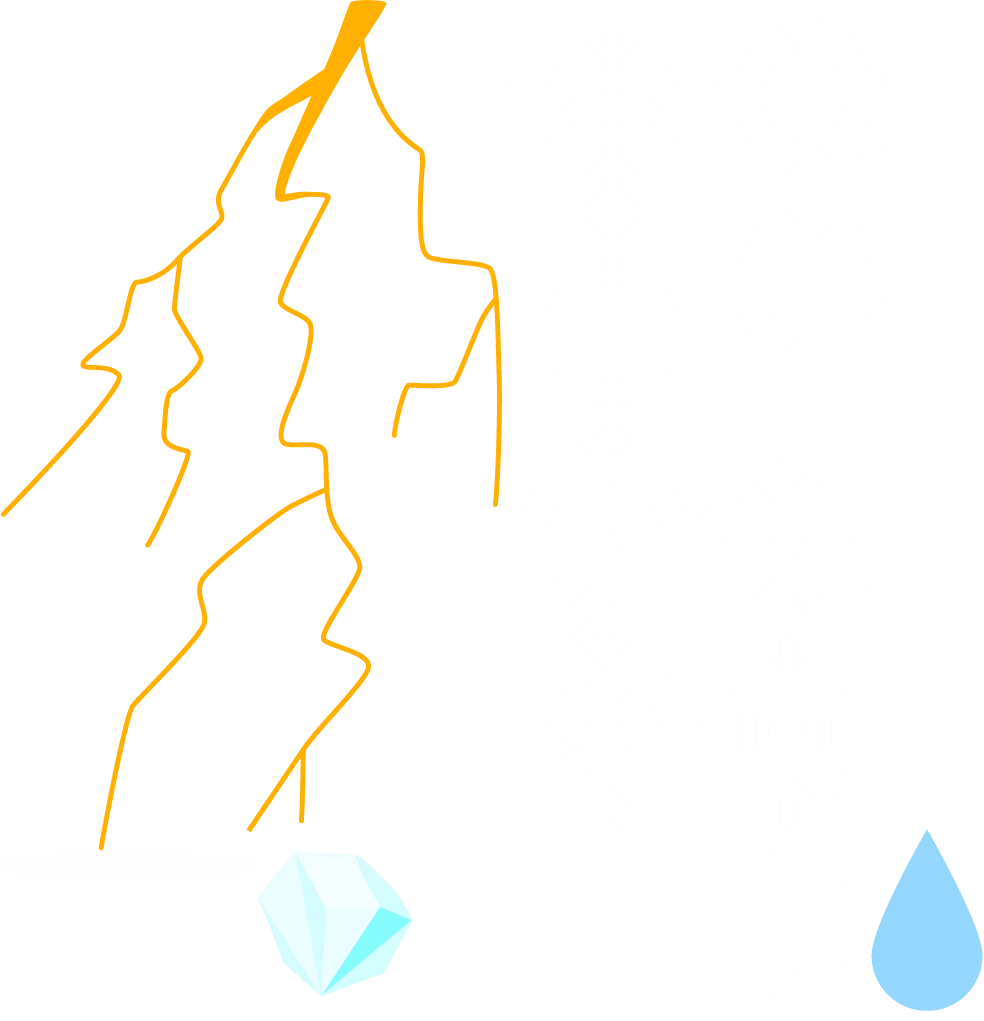
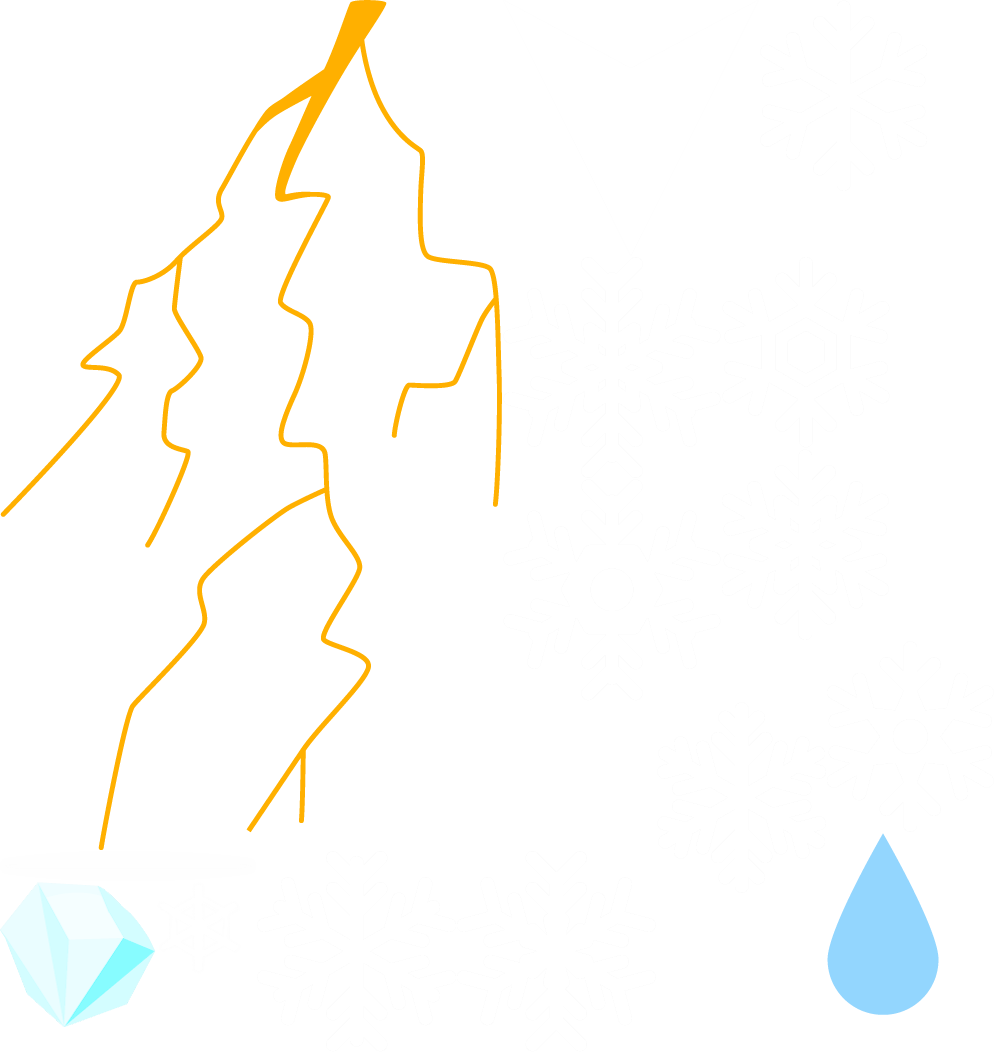
#frontend: cool it - display rays with arrows + adjust the thickness of the light rays

diff --git a/frontend/src/modules/playing/coolit/organisms/PlayLevel.vue b/frontend/src/modules/playing/coolit/organisms/PlayLevel.vue
@@ -172,12 +172,13 @@
             >
               <container v-if="!ray.hit">
                 <sprite
-                  :texture="circleGradientTexture"
+                  :texture="weatherStylesheets.textures['arrow.png']"
                   :x="ray.displayPoints[0].x * 0.2"
-                  :width="rayParticleSize"
-                  :height="rayParticleSize"
+                  :width="rayParticleSize * 2"
+                  :height="rayParticleSize * 2"
                   :anchor="0.5"
                   :tint="ray.type === RayType.light ? yellowColor : redColor"
+                  :rotation="getRotation(ray.displayPoints)"
                 ></sprite>
               </container>
               <container v-else>
@@ -1131,6 +1132,18 @@ export default class PlayLevel extends Vue {
     return 1;
   }
 
+  getRotation(rayPoints: { x: number; y: number }[]): number {
+    const p1 = rayPoints[0];
+    const p2 = rayPoints[1];
+    if (p1.x !== p2.x || p1.y !== p2.y) {
+      const x = p2.x - p1.x;
+      const y = p2.y - p1.y;
+      const angle = Math.atan2(y, x) + Math.PI / 2; //radians
+      return angle / 2;
+    }
+    return 0;
+  }
+
   calculateRayPath(type: RayType, shift = 0): { x: number; y: number }[] {
     const rayPoints: { x: number; y: number }[] = [];
     const iPart = (Math.PI * 2) / this.rayPoints;
@@ -1508,6 +1521,7 @@ export default class PlayLevel extends Vue {
     };
   }
 
+  lightIntensity = 2;
   initRays(): void {
     const points = this.calculateInitRayPoints(RayType.light, 1, 0);
     for (let i = 0; i < 30; i++) {
@@ -1530,7 +1544,7 @@ export default class PlayLevel extends Vue {
         animationIndex: 0,
         body: null,
         gameObject: null,
-        intensity: 1,
+        intensity: this.lightIntensity,
         hit: false,
       });
     }
@@ -1875,7 +1889,7 @@ export default class PlayLevel extends Vue {
       if (poolRay) {
         if (poolRay.type !== RayType.light) {
           poolRay.type = RayType.light;
-          poolRay.intensity = 1;
+          poolRay.intensity = this.lightIntensity;
           poolRay.displayPointsCount = 0;
           poolRay.animationIndex = 0;
           const points = this.calculateInitRayPoints(RayType.light, 1, 0);
